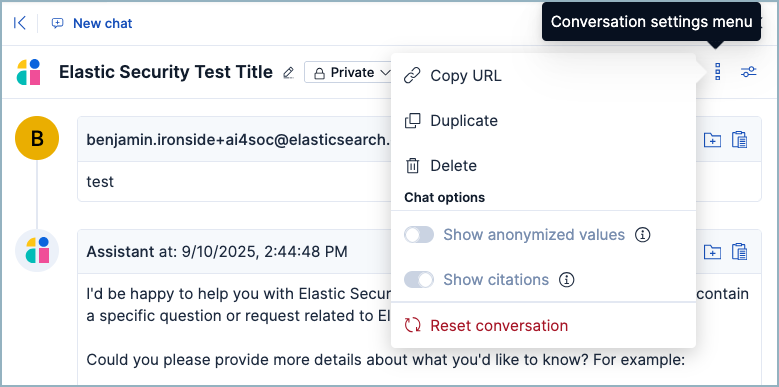
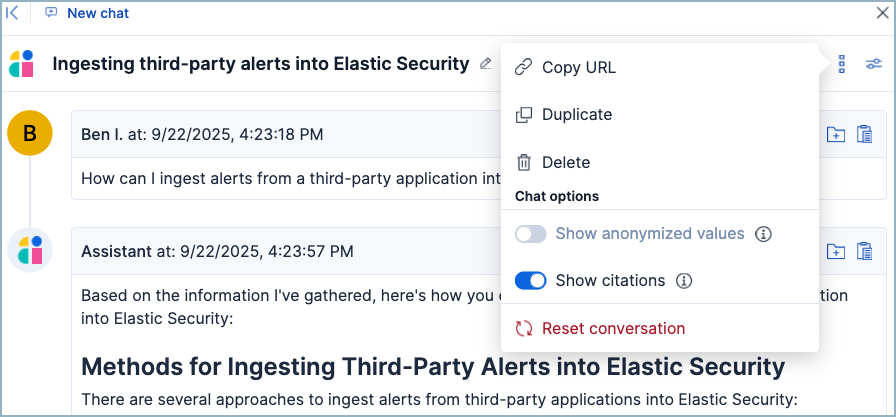
updates AI Assistant chat sharing and related screenshots (#3110)
Fixes #2975 by updating screenshots for Security AI Assistant's
conversation sharing and configuration sections. Also adds a bit more
info about the value-add of conversation sharing.

---------

diff --git a/solutions/security/ai/ai-assistant.md b/solutions/security/ai/ai-assistant.md
@@ -120,7 +120,7 @@ stack: ga 9.2
 serverless: ga
 ```
 
-Conversations that you start with AI Assistant are private by default and not visible to other members of your team. You have two ways to share conversations - either with selected members or more broadly to everyone with access to the space.
+Conversations that you start with AI Assistant are private by default and not visible to other members of your team. Sharing conversations can help you keep your teammates informed about your conversations with AI Assistant, making it easier to simultaneously collaborate with your teammates and AI Assistant. You have two ways to share conversations—either with selected members or more broadly to everyone with access to the space. 
 
 To share a conversation, do one of the following:
 
